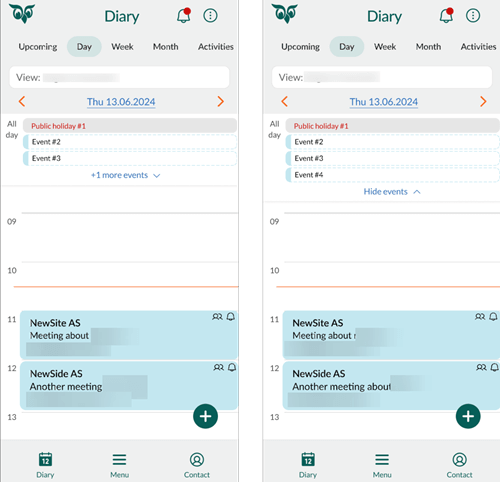
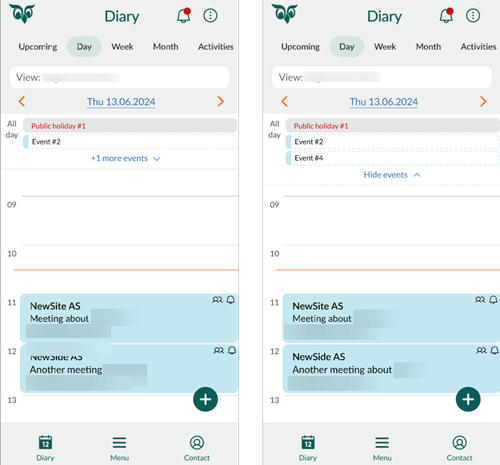
#2537 Edited texts after meeting and check of functionality

diff --git a/release-notes/mobile/11.1.7-update.md b/release-notes/mobile/11.1.7-update.md
@@ -1,14 +1,14 @@
 ---
-uid: news-AREA-11.1.7
+uid: news-mobile-crm-11.1.7
 title: Mobile CRM  11.1.7 update
 description: Release notes. What's new in SuperOffice Mobile CRM 11.1.7
-keywords: Mobile CRM, pocket crm, diary, all day event, person type, project member, stakeholder
+keywords: Mobile CRM, pocket crm, diary, all day event, person type, project member, stakeholder, contact list
 author: kirstiaa
 date: 01.19.2026
 version: 11.1.7
 content_type: release-notes
 category: mobile
-license: # salesessentials, salespremium, serviceessentials, servicepremium, marketingessentials, marketingpremium (one or more user plans)
+license: # salesessentials, salespremium, serviceessentials, servicepremium, marketingessentials, marketingpremium
 functional_right: # such as knowledge-base
 audience: person
 audience_tooltip: SuperOffice CRM
@@ -18,17 +18,25 @@ audience_tooltip: SuperOffice CRM
 
 ## All day events in Diary
 
-Support for many "All day" events by adding the possibility to "Show more" so you get the whole list.
+When using the Diary on a small screen, it can be easy to miss important information if you have many follow‑ups. To help with this, all **all‑day events** are grouped together at the top of your Diary, where you can choose to show or hide them as needed.
 
-When there are more than two such "All day" events, a link-button will be displayed indicating that there are more all day appointments for this day.
+If you have more than two all‑day events, a link appears below the section showing **+x more events**, where x indicates the number of hidden events. Click this link to display all all‑day events. Once they are visible, you can select **Hide events** to collapse the section again and see more of your Diary.
 
-![New company suggestions with duplicates and new companies -app-screen][img1]
+![Diary - show more or hide events in the All events section -app-screen][img1]
 
-## Project members and Sales stakeholder - Show person type icon
+## Sections for Contacts - Show person type icon
 
-In the Company and Projects screens, person lists include an icon that shows whether a person is a colleague (blue) or an external contact (grey). This makes it easier to quickly identify which project members are internal team members and which are external collaborators.
+Screens such as **Company**, **Projects**, and **Sales** include a section for linked **contacts**. Selecting this section opens an overview of all related contacts.
 
-![New company suggestions with duplicates and new companies -app-screen][img2]
+In the **contact sections** on the Company, Sales, and Projects screens, each contact in the list is displayed with an icon indicating their **person type**:
+
+* Green for yourself
+* Blue for a colleague
+* Grey for an external contact
+
+These icons make it easier to **quickly identify** which contacts are internal team members and which are external collaborators.
+
+![Project member screen - Show the person type in the project member section list -app-screen][img2]
 
 <!-- Referenced links-->
 

diff --git a/release-notes/11/marketing/11.9-update.md b/release-notes/11/marketing/11.9-update.md
@@ -18,13 +18,13 @@ audience_tooltip: SuperOffice CRM
 
 ## Form - Use Google fonts in your forms
 
-In **Marketing** > **Forms**, you can use the fonts that have been added in **Settings and maintenance**. Add **Google Fonts** there to make them available across all your forms. Once added, fonts can be selected in the **Styling** section, as well as in the **Double opt‑in**, **Thank you page**, and **Page for inactive form** sections.
+In **Settings and maintenance** you can add **Google fonts** and manage them to make them available across all your forms. This helps ensure a **consistent design and brand identity** for users who interact with your forms externally.
 
-Using Google Fonts helps ensure a **consistent design and brand identity**, allowing you to apply a single font across all content visible to external users.
+Once the fonts are added and organised, the new fonts can be selected in the **Edit form** dialog, in the **Style** section of the form, as well as in the **Double opt‑in**, **Thank you page**, and **Page for inactive form** sections.
 
 ![Marketing Form - Change the form font in Style -screenshot][img1]
 
-Read more about how to set it up in [Settings and maintenance][1].
+Read more about how to add Google fonts in [Settings and maintenance][1].
 
 <!-- Referenced links-->
 [1]: ../admin/11.9-update.md
